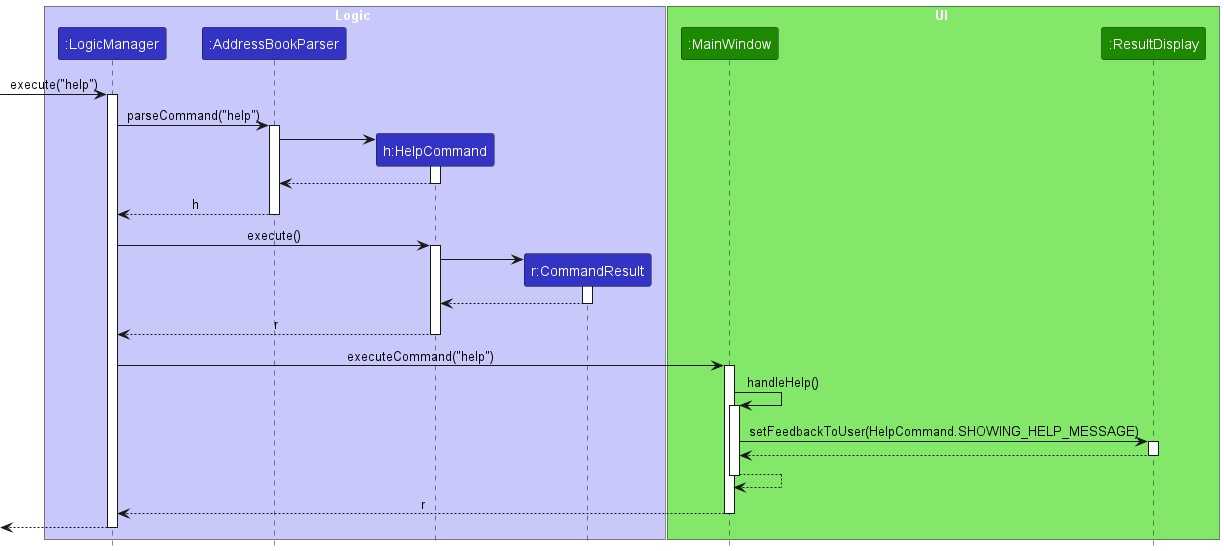
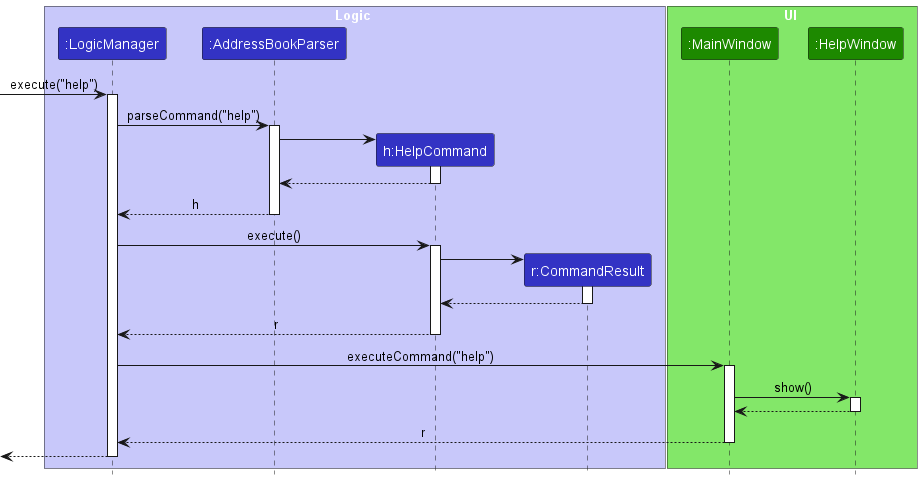
Modify diagrams and descriptions for helpcommand

diff --git a/docs/DeveloperGuide.md b/docs/DeveloperGuide.md
@@ -242,53 +242,75 @@ The following sequence diagram summarizes what happens when a user executes a ne
 
 #### Implementation
 
-The help command is facilitated by the `HelpCommand` class. It allows users to view the usage instructions for the application.
+Showing help for commands is facilitated by the `HelpCommand` class. It allows users to view the usage instructions for the application.
 
-
-
-The `HelpCommand` class extends the `Command` interface and is responsible for executing the `help` command. It creates a `CommandResult` object with the help message to be displayed to the user.
-
-**UML Diagrams:**
-
-The following class diagram shows the relevant classes involved in the help command implementation:
-
-Step 1. The `LogicManager` is called to execute the "help" command.
-
-Step 2. The `AddressBookParser` parses the command and creates a new `HelpCommand` instance.
-
-Step 3. The `LogicManager` calls the `execute()` method of the `HelpCommand`.
-
-Step 4. The `HelpCommand` creates a new `CommandResult` with the help message.
-
-Step 5. The `MainWindow` handles the help command and calls the `handleHelp()` method.
-
-Step 6. The `ResultDisplay` is updated with the help message obtained from `HelpCommand.SHOWING_HELP_MESSAGE`.
-
-The `HelpCommand` class interacts with the `Logic` component and utilizes the `CommandResult` class to encapsulate the result of executing the `help` command. The `MainWindow` and `ResultDisplay` classes in the UI component are responsible for handling the display of the help message to the user.
-
+The following class diagram shows the structure of the `HelpCommand` class:
 
 ![HelpCommandClassDiagram](images/HelpClassDiagram.png)
 
-The following sequence diagram shows how the help command works:
+The `HelpCommand` class interacts with the following components:
 
+* `Logic`: The `HelpCommand` class is part of the `Logic` component and is executed by the `LogicManager` when the user enters the `help` command.
+* `UI`: The `MainWindow` class in the `UI` component subscribes to the `CommandResult` event raised by the `HelpCommand` and displays the help message in the `HelpWindow`.
+
+
+The `HelpCommand` class extends the `Command` interface and implements the `execute()` method. When the `help` command is executed, the `HelpCommand#execute()` method is called, which creates a `CommandResult` object with the help message to be displayed to the user.
+
+Here are the steps involved when a user calls the `help` command:
+
+**Step 1.** The user enters the `help` command in the CLI.
+
+**Step 2.** The `LogicManager` receives the command and calls the `parseCommand()` method of the `AddressBookParser`.
+
+**Step 3.** The `AddressBookParser` identifies the command as a `HelpCommand` and creates a new instance of the `HelpCommand` class.
+
+**Step 4.** The `AddressBookParser` returns the `HelpCommand` instance to the `LogicManager`.
+
+**Step 5.** The `LogicManager` calls the `execute()` method of the `HelpCommand` instance.
+
+**Step 6.** The `HelpCommand#execute()` method creates a new `CommandResult` object with the help message.
+
+**Step 7.** The `CommandResult` object is returned to the `LogicManager`.
+
+**Step 8.** The `LogicManager` passes the `CommandResult` to the `MainWindow` for display.
+
+**Step 9.** The `MainWindow` extracts the help message from the `CommandResult` and displays it in the `HelpWindow`.
+
+The following sequence diagram shows how the help command works:
 ![HelpCommandSequenceDiagram](images/HelpSequenceDiagram.png)
 
-The following activity diagram summarizes what happens when a user executes a new command:
+#### Design considerations
 
-<img src="images/CommitActivityDiagram.png" width="250"/>
+**Aspect: Displaying the help message**
 
-When the user executes the help command, the following steps occur:
-  
+* **Alternative 1 (current choice)**: Display the help message in a separate window.
+    * Pros: Allows the user to view the help message without navigating away from the main window.
+    * Cons: Requires additional implementation to create and manage a separate help window.
 
-1. The `LogicManager` is called to execute the "help" command.
-2. The `AddressBookParser` parses the command and creates a new `HelpCommand` instance.
-3. The `LogicManager` calls the `execute()` method of the `HelpCommand`.
-4. The `HelpCommand` creates a new `CommandResult` with the help message.
-5. The `MainWindow` handles the help command and calls the `handleHelp()` method.
-6. The `ResultDisplay` is updated with the help message obtained from `HelpCommand.SHOWING_HELP_MESSAGE`.
+* **Alternative 2**: Display the help message in the main window's result display.
+    * Pros: Simpler implementation, as it reuses the existing result display component.
+    * Cons: The help message may be obscured by subsequent command results, and the user may need to scroll to view the entire message.
 
+**Aspect: Providing command-specific help**
 
-The `HelpCommand` class interacts with the `Logic` component and utilizes the `CommandResult` class to encapsulate the result of executing the `help` command. The `MainWindow` and `ResultDisplay` classes in the UI component are responsible for handling the display of the help message to the user.
+* **Alternative 1 (current choice)**: Provide a general help message that covers all commands.
+    * Pros: Simplifies the implementation and maintains a consistent help message format.
+    * Cons: The user may need to read through the entire help message to find information about a specific command.
+
+* **Alternative 2**: Provide command-specific help messages.
+    * Pros: Allows users to quickly access help information for a particular command.
+    * Cons: Requires additional implementation to map each command to its specific help message, and may lead to inconsistencies in the help message format.
+
+#### Future enhancements
+
+Here are some possible enhancements for the help feature:
+
+* Implement context-sensitive help that provides guidance based on the user's current input or state.
+* Add support for displaying rich media content, such as images or videos, to provide more engaging and informative help content.
+* Integrate a search functionality within the help system to allow users to quickly find relevant information.
+
+These enhancements would improve the user experience and make the help feature more interactive and user-friendly.
+
 
 ### List by tags and/or ward feature
 
